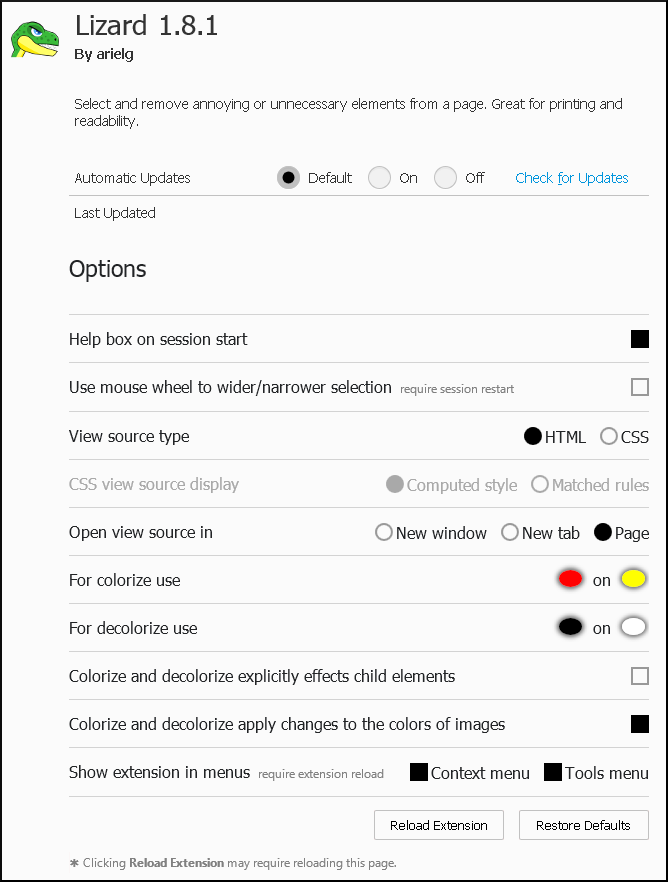
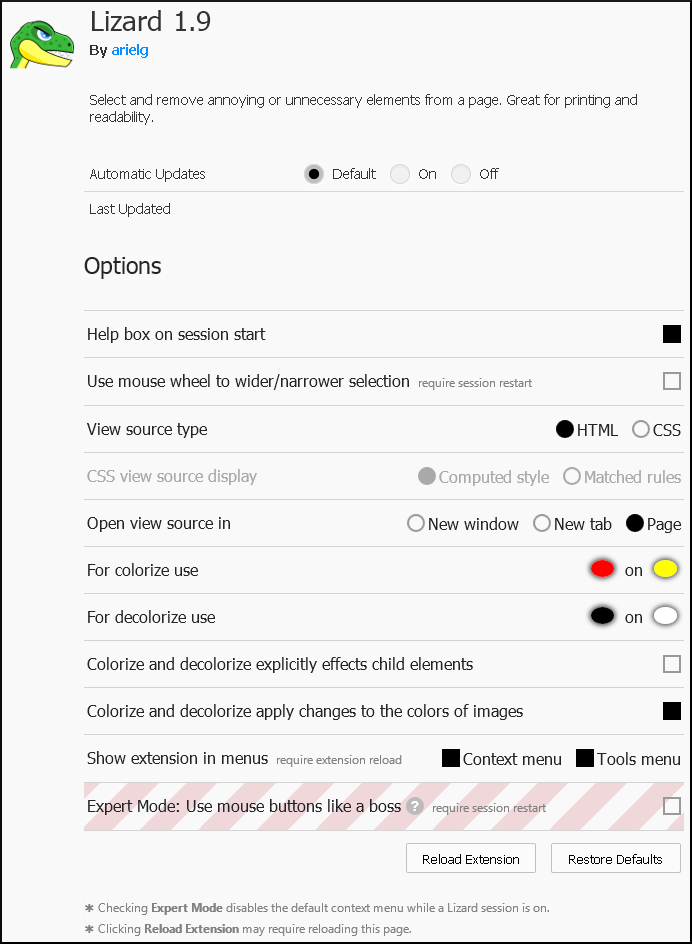
Expert mode new PR image of the options page

diff --git a/preferences/preferences.css b/preferences/preferences.css
@@ -4,6 +4,7 @@ body {
   font-family: Tahoma, Verdana, Segoe, sans-serif;
   font-size: 16px;
   font-weight: normal;
+  min-width: 600px;
   max-width: 650px;
   line-height: 21px;
 }
